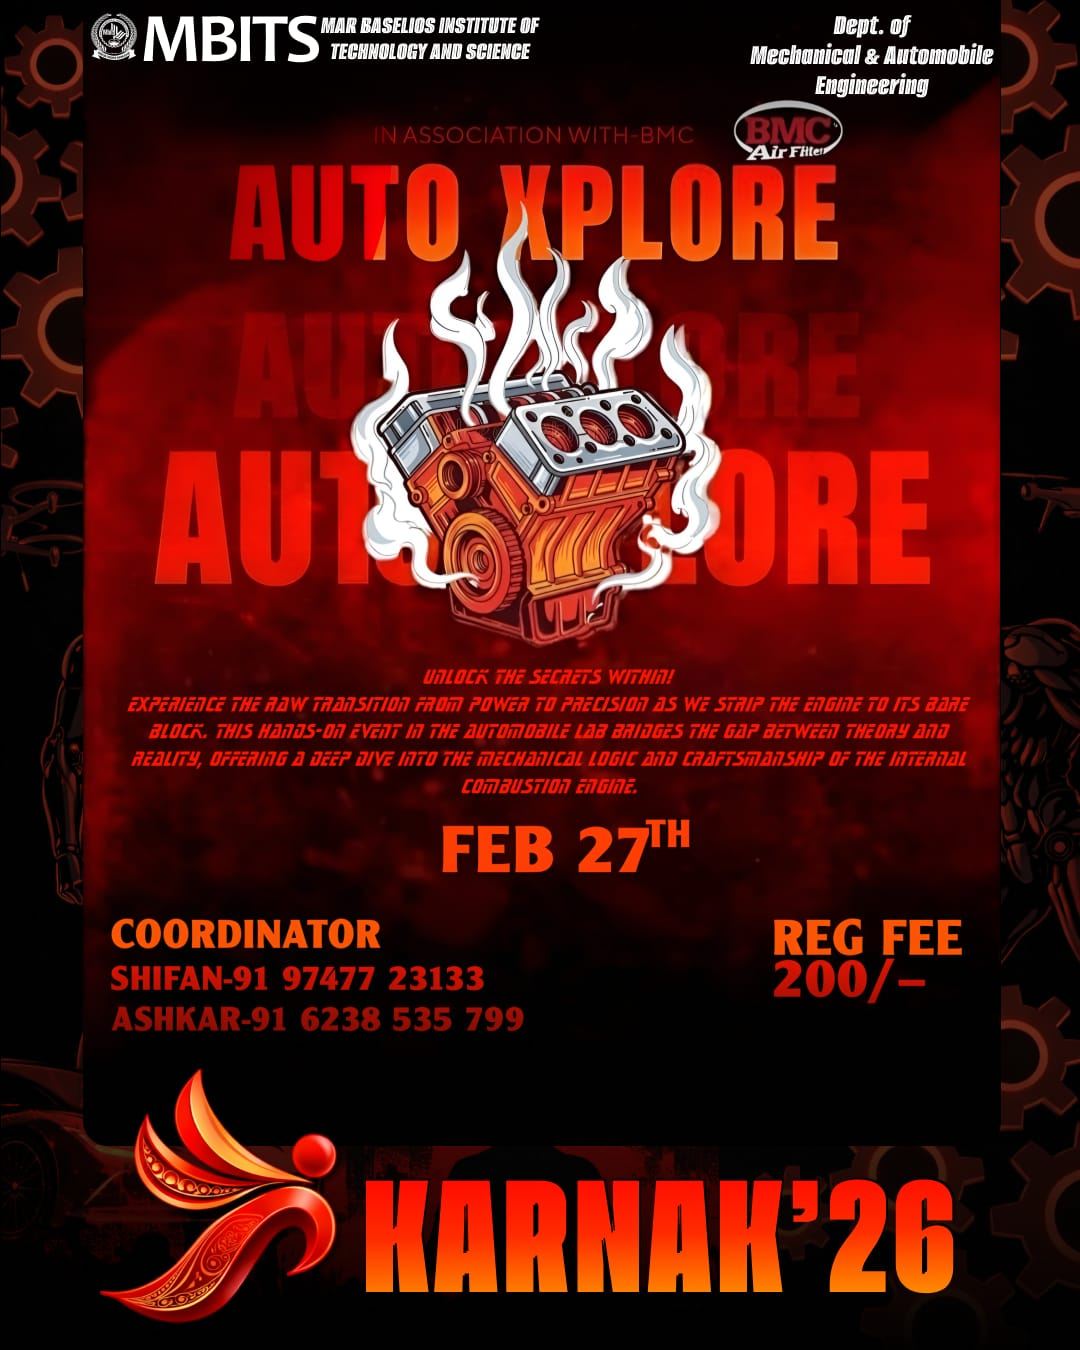
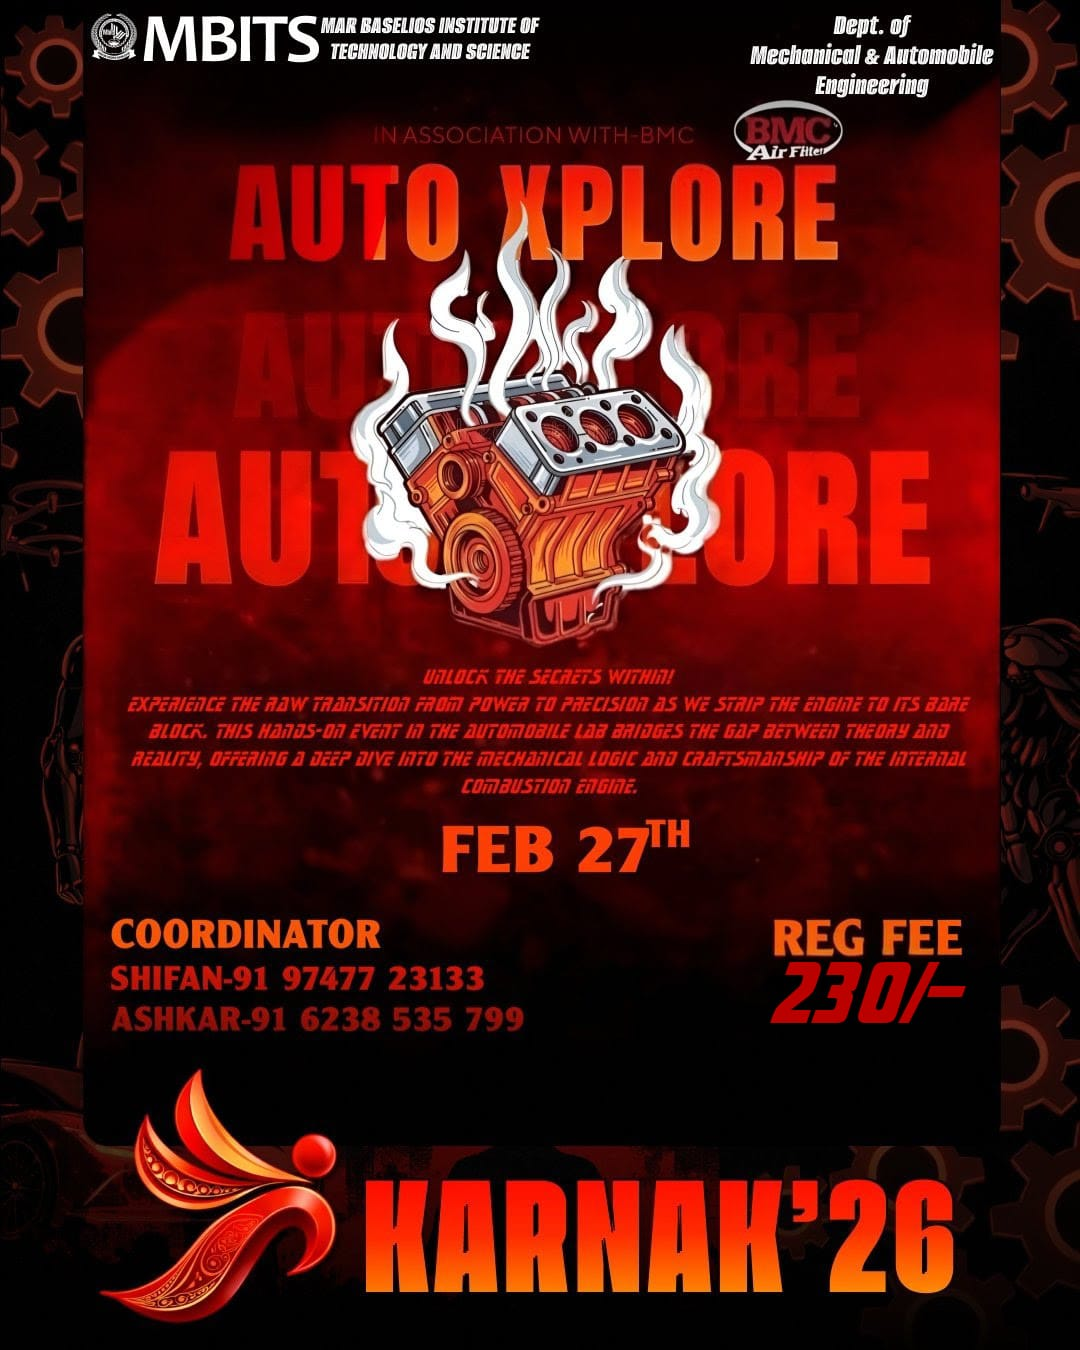
mec new

diff --git a/src/app/pages/DepartmentEventsPage.tsx b/src/app/pages/DepartmentEventsPage.tsx
@@ -527,45 +527,45 @@ const departmentEvents: Record<string, any> = {
       {
         id: 1,
         name: 'SEMINAR AND INNOVATION ',
-        description: 'Seminar and innovation presentation Showcase your innovative ideas and cutting-edge engineering projects. Join us for an inspiring seminar filled with creativity, technology, and groundbreaking discoveries\n\nRules / Guidelines\n\n1.Each team shall consist of a maximum of four (4) participants. Individual participation is permitted.\n2.Participants must be currently enrolled students of a recognized college or university.\n3.All participants are required to carry and present a valid student identification card at the time of the event.\n4.The presentation topic must be related to the field of Mechanical Engineering. Acceptable areas include innovation, technology, research, entrepreneurship, sustainability, or emerging trends within the discipline.\n5.Participants must bring their own laptop/system and the required presentation file (PPT). Only a projector',
+        description: 'Seminar and innovation presentation \nShowcase your innovative ideas and cutting-edge engineering projects. Join us for an inspiring seminar filled with creativity, technology, and groundbreaking discoveries\n\nRules / Guidelines\n\n1.Each team shall consist of a maximum of four (4) participants. Individual participation is permitted.\n2.Participants must be currently enrolled students of a recognized college or university.\n3.All participants are required to carry and present a valid student identification card at the time of the event.\n4.The presentation topic must be related to the field of Mechanical Engineering. Acceptable areas include innovation, technology, research, entrepreneurship, sustainability, or emerging trends within the discipline.\n5.Participants must bring their own laptop/system and the required presentation file (PPT). Only a projector',
         date: 'February 27, 2026',
-        time: 'Forenoon',
+        time: '10:00 AM',
         venue: 'Room no. M208',
         prizepool: '₹3,000',
-        fee: '50 per head',
+        fee: '80 per head',
         badge: 3,
         image: '/depfolds/mec/idea.jpeg',
-        registrationUrl: 'https://t4.ftcdn.net/jpg/17/77/94/27/360_F_1777942761_UTY0WxIs5of7FgsgrkLmzqFdCapwHHgN.jpg',
+        registrationUrl: '',
         registerOption: 1,
-        contact: [{ name: ' Nandana Sunil', phone: '6235734127' }, { name: '', phone: '' },{ name: '', phone: '' }]
+        contact: [{ name: ' Nandana Sunil', phone: '6235734127' }, { name: 'Anand', phone: '9778442389' },{ name: '', phone: '' }]
       },
       {
         id: 2,
         name: 'CIRCLE SMASH (Mini Game) ',
         description: 'Prize \n* score 15+ runs to get amazing prize\n*Prize varies based on scoring runs\n*Minimum prize 15+\n\nGame\n There will be a circle with out runs marked on it. Players have to defend from the center circle with their bat and reach the marked circles. Those who score 15+ runs will get gifts.\n\nRules\n•score runs with using bat only \n•stay on the circle\n•Score runs only with defensive shots',
         date: 'February 27, 2026',
-        time: 'Full Day',
+        time: '9 AM',
         venue: 'Near to bike parking ',
         prizepool: 'Excisting prizes',
-        fee: '10 per person',
-        badge: 4,
+        fee: '30 per person',
+        badge: 3,
         image: '/depfolds/mec/mini.jpeg',
-        registrationUrl: 'https://t4.ftcdn.net/jpg/17/77/94/27/360_F_1777942761_UTY0WxIs5of7FgsgrkLmzqFdCapwHHgN.jpg',
+        registrationUrl: '',
         registerOption: 1,
         contact: [{ name: 'Basil Eldhose', phone: '6235366926' }, { name: 'Martin Antony', phone: '6235887598' },{ name: '', phone: '' }]
       },
       {
         id: 3,
-        name: 'spin craft championship ',
+        name: 'LATHE MASTER',
         description: 'Prize Pool\n1st : 2000\n2nd: 1000\n\nA high-intensity machining challenge testing precision turning, dimensional accuracy, tool control, and time efficiency. Execute real-world lathe operations and prove your technical skill to claim the title of Lathe Master.\n\nRules / Guidelines\n•Participants should wear safety shoes•\nParticipants must complete the official registration form by the given deadline.\n•Each participant will be provided with a lathe machine, cutting tools, tool holders, and work piece material\n•Participants are not allowed to bring their own tools, measuring devices, or materials\n•Participants will have a fixed time limit of 1.5 hours (including setup time) to complete the task\n•Individual Participation Only – no team entries.\n•Participants should have a valid College ID.',
         date: 'February 27, 2026',
-        time: 'Forenoon',
+        time: '9:00 AM',
         venue: 'MT Lab ',
         prizepool: '₹3000',
-        fee: '100',
+        fee: '130',
         badge: 3,
         image: '/depfolds/mec/spin.jpeg',
-        registrationUrl: 'https://t4.ftcdn.net/jpg/17/77/94/27/360_F_1777942761_UTY0WxIs5of7FgsgrkLmzqFdCapwHHgN.jpg',
+        registrationUrl: '',
         registerOption: 1,
         contact: [{ name: 'Midhun', phone: '9037165193' }, { name: '', phone: '' },{ name: '', phone: '' }]
       },
@@ -574,14 +574,88 @@ const departmentEvents: Record<string, any> = {
         name: 'AUTO XPLORE',
         description: 'Dept. of Automobile Engineering \n🛠 Live Engine Strip down session\n⚙ From power➡ precision \n🔩 Explore the mechanical logicOf Ic engine\n🧑🔧 Hands-on Automobile lab experience\n\nDont miss the power-packed Technical Experience!\n📌Register now & be part of the action',
         date: 'February 27, 2026',
-        time: 'TBA',
+        time: '10:00 AM',
         venue: 'MT Lab ',
-        fee: '200',
-        badge: 3,
+        fee: '230',
+        badge: 2,
         image: '/depfolds/mec/auto.jpeg',
-        registrationUrl: 'https://t4.ftcdn.net/jpg/17/77/94/27/360_F_1777942761_UTY0WxIs5of7FgsgrkLmzqFdCapwHHgN.jpg',
+        registrationUrl: '',
         registerOption: 1,
         contact: [{ name: 'Shifan', phone: '9747723133' }, { name: 'Ashkar', phone: '6238535799' }]
+      },
+      {
+        id: 5,
+        name: 'STEEL ARMS (CHALLENGE)',
+        description: 'Are you ready to defy gravity and prove your power?\nThis challenge is not just about physical strength-its about focus, resilience, and pushing beyond limits\n>Every second counts.\n>Every grip matters.\n>Only the strongest will remain hanging till the end.',
+        date: 'February 27, 2026',
+        time: '10:00 AM',
+        venue: 'Bus Parking Area',
+        prizepool: '₹500',
+        fee: '30',
+        badge: 4,
+        image: '/depfolds/mec/5.jpeg',
+        registrationUrl: '',
+        registerOption: 1,
+        contact: [{ name: 'Eldhose', phone: '9061022005' }, { name: '', phone: '' }]
+      },
+      {
+        id: 6,
+        name: 'FREE FIRE XPLORE 2026',
+        description: 'Gear Up.Lock In.Dominate the Zone\n⚙ MECH FIRE\nExperience the fusion of Gaming + Mechanical Power\n\n💰 Registration Fee: ₹230 Per squad',
+        date: 'February 27, 2026',
+        time: '10:00 AM',
+        venue: 'Bus Parking Area',
+        prizepool: '₹1000',
+        fee: '230 per SQUAD',
+        badge: 3,
+        image: '/depfolds/mec/6.jpeg',
+        registrationUrl: '',
+        registerOption: 1,
+        contact: [{ name: 'Shown k Moncy', phone: '7510316752' }, { name: 'Sobin Chacko', phone: '9496806446' }]
+      },
+      {
+        id: 7,
+        name: 'MEP Master Workshop',
+        description: 'MEP Master Workshop\nA hands-on session introducing participants to the basics of designing Mechanical, Electrical, and Plumbing (MEP) systems using Revit. Participants will learn fundamental tools, workflows, and modeling techniques used in building design to gain practical skills for engineering and construction projects.\n\nWorkshop Highlights\n-Introduction to BIM & Revit MEP-\nRevit Interface & Navigation\n-Project Setup – Levels & Views\n-HVAC System Modeling\n-Mechanical Piping Modeling\n-Equipment, Fittings & Accessories -Placement\n-3D Views & Section Creation\n-Documentation & Industry Workflow\n-Schedules & Quantity Extraction\n-MEP Coordination & Career Scopen\n\nWorkshop Details-\nLevel: Beginner to Working \nKnowledge-\nMode: Demo + Hands-on Practice',
+        date: 'February 28, 2026',
+        time: '09:00 AM',
+        venue: 'Lab 5',
+        fee: '50',
+        badge: 2,
+        image: '/depfolds/mec/7.jpeg',
+        registrationUrl: '',
+        registerOption: 1,
+        contact: [{ name: 'Kevin S Dev:', phone: '9495887576' }, { name: 'Thahir PS', phone: '7593906129' }, { name: 'Rahul Manoj', phone: '8113068549' }]
+      },
+      {
+        id: 8,
+        name: 'GRIP &FIT CHALLENGE',
+        description: '>You get the parts.\n>You get the time limit.\n>You get one shot.\n"Assemble a fully functional lathe chuck before the clock runs out."\nSpeed, accuracy, and teamwork decide who survives the war.\n\nEntry Fee:  ₹130 per team (2 members)\n\nPrize:\n1st Prize: Rs.2000 \n2nd Prize: Rs.1000',
+        date: 'February 27, 2026',
+        time: '09:00 AM',
+        venue: 'MT LAB',
+        prizepool: '₹3000',
+        fee: '130 per team of 2 members',
+        badge: 3,
+        image: '/depfolds/mec/8.jpeg',
+        registrationUrl: '',
+        registerOption: 1,
+        contact: [{ name: 'Andrews', phone: '9562336350' }, { name: 'Seth', phone: '8590973900' }]
+      },
+      {
+        id: 9,
+        name: 'TECHNOVA',
+        description: 'Mini Project Expo Is A College Event That Showcases Students Innovative Ideas And Technical Skills Through Mini Projects. It Provides A Platform To Present Concepts, Demonstrate Working Models, And Enhance Creativity, Teamwork, And Presentation Skills.\n\nRules and Regulations:\n>First Day: Forenoon, 27/2/26\n>Duration: 4 hours\n>Team Time: 12 + 5 minutes\n>Prototype: Not mandatory\n>Team Size: Maximum of 5 persons\n>Policy: same projects from the same school or college will be cancelled\n>Registration Fees: ₹100 per team for schools; ₹50 per head for colleges\n>Identification: College ID card is mandatory\n>PPT Requirements: Must include a proof video of the project featuring the participants\n>Supervision: Staff accompaniment is mandatory for school students, but not required for college students\n\nPrize Pool:\n1st Prize: Rs.1500 \n2nd Prize: Rs.750',
+        date: 'February 27, 2026',
+        time: '09:00 AM',
+        venue: 'Class Room 205',
+        prizepool: '₹2250',
+        fee: '130/- For School team, 80/- Per head for college students',
+        badge: 3,
+        image: '/depfolds/mec/9.jpeg',
+        registrationUrl: '',
+        registerOption: 1,
+        contact: [{ name: 'Anson P Babu', phone: '8943479975' }, { name: 'Govindh Krishnan', phone: '7510723398' }]
       },
     ]
   },
